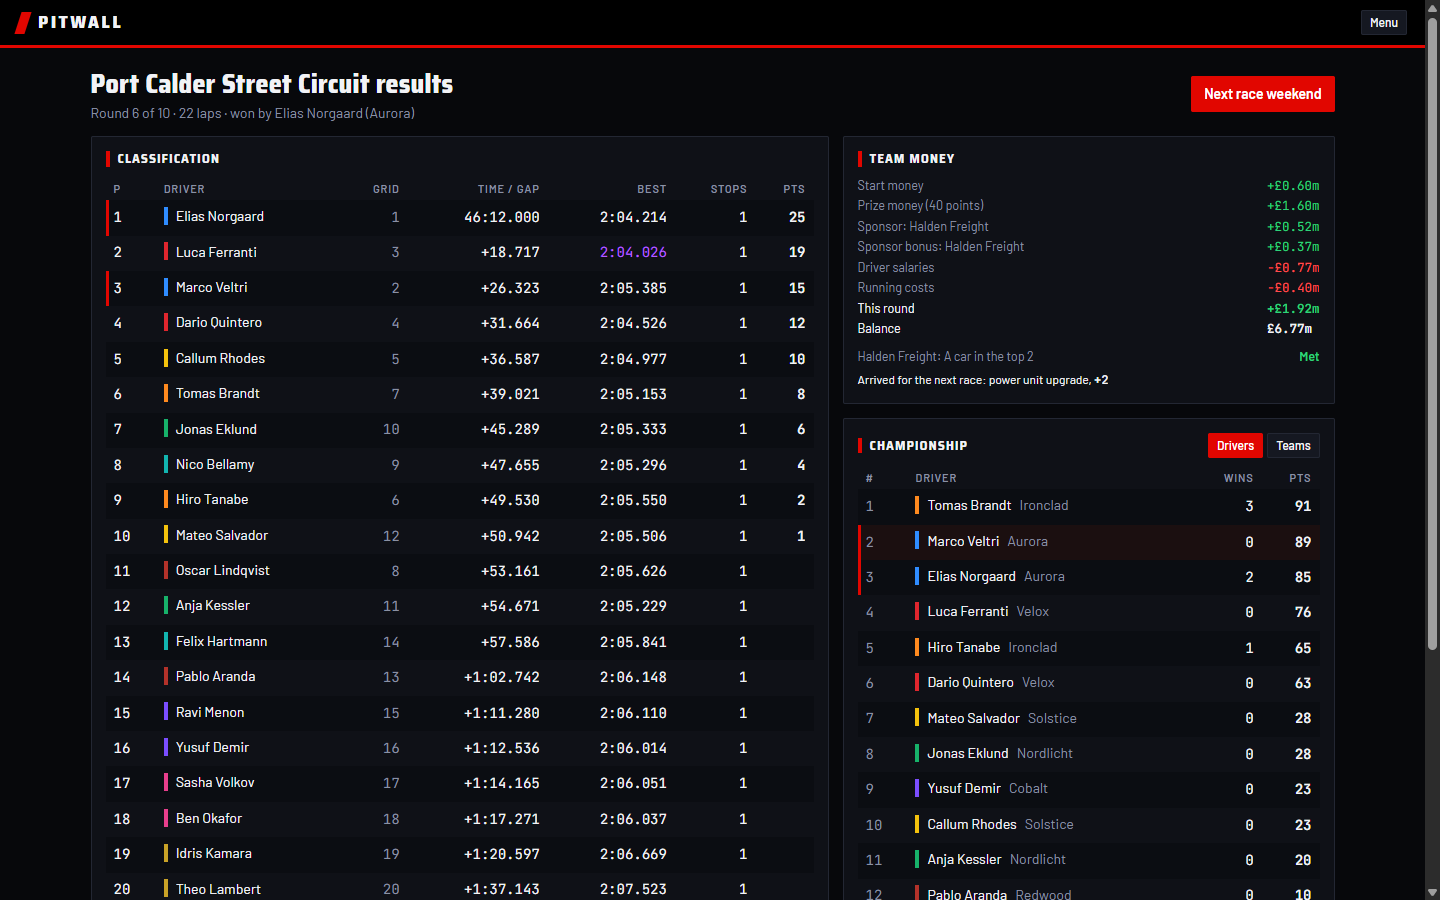
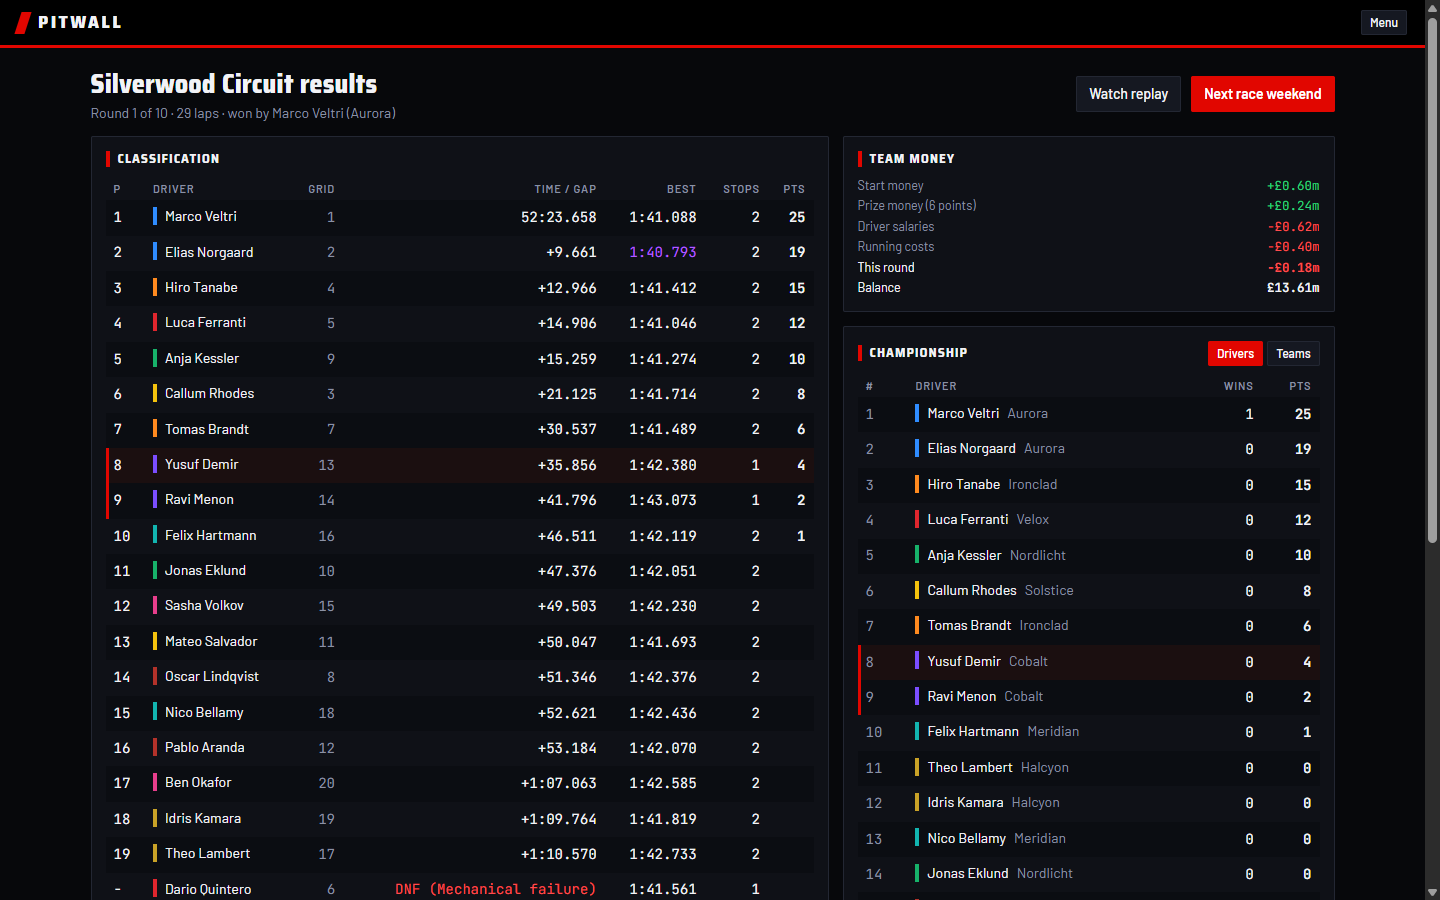
The README and case study show replays, race charts and difficulty, with new screenshots.
Two case-study entries cover replaying a race from the player's orders and tuning difficulty with the season script, including the Hard target that was missed.
The results screenshot is retaken to show Watch replay; the charts, replay and difficulty shots are new.
352 tests.

diff --git a/docs/CASE-STUDY.md b/docs/CASE-STUDY.md
@@ -13,10 +13,11 @@ A real-time race simulation has three requirements that pull against each other.
 | Simulation modelling | `src/engine/track.ts`, `tyres.ts`, `weather.ts`, `race.ts` | Circuits built from straights and true arcs of real radii, speed profiles from grip that rises with speed, tyre wear with a cliff, and a wet-track model, running a 58-lap race headless in well under a second |
 | Algorithms | `src/engine/strategy.ts`, `race.ts`, `circuitBuilder.ts` | Strategy search with greedy stint allocation, gap timing from 10 m checkpoints, and corner arcs fitted between straights with the clash named when two corners do not fit |
 | Probability | `src/engine/weather.ts` | A rain forecast built with Bayes' rule, with its reliability measured over 2,000 races per race length |
-| Deterministic design | `src/engine/rng.ts` | `mixSeed(seed, label)` gives each purpose its own random stream, so adding a car or an event does not reshuffle other draws |
+| Deterministic design | `src/engine/rng.ts`, `replay.ts` | `mixSeed(seed, label)` gives each purpose its own random stream, so adding a car or an event does not reshuffle other draws, and a replay is the race's config plus the player's orders |
+| Data visualisation | `src/ui/RaceChartsPanel.tsx`, `raceCharts.ts` | Hand-drawn SVG lap-time and tyre-wear charts, with series colours checked for colour-blind separation and a lap-by-lap table behind them |
 | React architecture | `src/ui/RaceScreen.tsx`, `moments.ts` | A fixed 0.1 s simulation step inside an animation loop, with interpolation, and pausing on the exact step through refs |
 | State management and migrations | `src/state/migrate.ts`, `effectiveTeams.ts` | Saves read from every version the game has written, and the career laid over the editor's teams, so the engine still receives plain team data |
-| Game economy | `scripts/season.ts`, `src/state/finance.ts`, `development.ts`, `sponsors.ts` | Whole careers played headless, spending against not spending, with the targets and the one target missed recorded |
+| Game balance | `scripts/season.ts`, `src/state/finance.ts`, `development.ts`, `sponsors.ts`, `src/engine/tuning.ts` | Whole careers played headless, spending against not spending and on each difficulty, with the targets and the targets missed recorded |
 | Testing | `src/**/*.test.ts` | 352 `node:test` tests, including statistical tests (forecast honesty, rain frequency), geometry tests (every circuit checked for faults) and a real milestone 4 save as a migration fixture |
 | Calibration method | `scripts/calibrate.ts` | Batch runs of 300 headless races compared with real-race targets, recorded in `docs/DESIGN.md` |
 | CI/CD | `.github/workflows/ci.yml`, `deploy.yml` | GitHub Actions runs typecheck, lint, test and build, then deploys to Pages |
@@ -134,6 +135,26 @@ A real-time race simulation has three requirements that pull against each other.
 **Changed.** Prize money fell from £0.1m to £0.04m a point, and every team is paid £0.6m for starting. Each rival's budget is scaled by what its own level costs, so every rival gains about the same points a round. A point costs more with the fourth power of a rating's distance towards 99, so one at 92 costs about twice one at 84. Sponsor objectives were reset to a top N set by where the car ranks, and to beating the team one place up.
 
 **Result.** Over three seeds (`npm run season -- --seasons 3 --seeds 3`), with a midfield team as the player the gap held at 23.9, 23.6 and 24.0 points over three seasons, and the strongest team spending everything opened it by 3.3 to 3.9. Sponsor objectives were met in 79 to 93% of races for safe deals, 39 to 80% for balanced and 14 to 68% for ambitious. From its second season, a team that spends finishes about a place higher than one that does not. The aim was two places, so the gap is recorded as a known limit.
+
+### 12. Watching a race again without storing the race
+
+**Seen.** A finished race could not be seen again. The engine already makes a race a function of its config and seed, and the player changes it only by giving orders, so the orders are all a replay needs. The risk was drift. A replay that fed an order in one step early or late would run a different race and nobody would notice.
+
+**Measured.** Every order the player gives is logged with the race time it was given at. A 12-lap race with its orders comes to about 6 KB, and a test keeps a 25-lap race under 20 KB. Checking a replay by running it headless took 142 ms for a 12-lap race in the browser.
+
+**Changed.** Live play and replay step the race through the same feed, which hands each logged order to the race just before the step at its time; live play has an empty log, so the two cannot drift apart. Each order is copied as it is logged, so a later change to the caller's object cannot rewrite it. Replays sit under their own storage key, apart from the career, and only the current season's are kept. The career is written first, and when storage is full the replays are cleared to make room. Before a replay opens, it is run headless and its finishing order compared with the one stored; if they differ, the game says so instead of showing a different race.
+
+**Result.** A test replays a race with grid, pace, plan, pit and auto orders to the same result lap for lap, and shows the race comes out differently without the orders. In the browser, a replay finished in the same order as the live race, survived a page reload, and opened from both Results and the calendar. A test fills storage and confirms the career is kept and the replays go.
+
+### 13. A difficulty setting that leaves the tuned game alone
+
+**Seen.** The game had one level of challenge. Every balance figure in this study, every seeded test and every stored replay depends on the races coming out as they do, so a new setting must not move Medium at all.
+
+**Measured.** Each level was played over three seeded seasons with a midfield team that never spends, and again with the rivals' pace switched off, so their pit-wall calls could be measured on their own: how far a rival's first stop sits from the best plan, and how long rivals spend on the wrong kind of tyre in wet races. The first plan made Hard's rivals plan with a little less noise. It moved their first stops only from 4.3 to 4.0 laps from the best plan, because the planner sees stop laps a few laps apart as almost the same cost, so even a little noise moves a stop several laps. Adding noise on Easy changed nothing, because a tyre's life limits how late a stop can move, and Medium's noise already reaches that limit.
+
+**Changed.** Rivals are 0.75 s a lap slower on Easy and 0.4 s quicker on Hard, in qualifying and the race. On Hard they plan with no noise and change tyres for rain close to the break-even point. On Easy they wait for a larger gain before changing tyres. Medium keeps every number it had, and the random streams draw the same values in the same order, so a test pins Medium's values and seeded races are unchanged. The player's cars, on auto or not, are never touched.
+
+**Result.** The midfield team's average place was 3.7 on Easy, 6.7 on Medium and 8.3 on Hard. On Hard, rivals' first stops sit 1.7 laps from the best plan, against 4.3 on Medium. In rain, rivals spend 519 s each on the wrong tyres per wet race on Easy, 421 s on Medium and 387 s on Hard. The target for Hard was 2.5 places lower and it reached 1.6. Pushing further needs rivals about 0.9 s a lap quicker, and at 0.55 s the top team's wins without spending already fell from two a season to 0.7, so Hard was held at 0.4 s and the shortfall is recorded. Planning with no noise on Hard also puts teammates on the same stop lap more often (40% of races against 32%), so they queue in their pit box; that is recorded as a known limit too.
 
 ## Run it
 

diff --git a/README.md b/README.md
@@ -11,20 +11,22 @@ Everything in it is fictional (teams, drivers, circuits), and everything is edit
 | Weekend planning | Results | Team HQ |
 | --- | --- | --- |
 | ![Weekend](docs/screenshots/weekend.png) | ![Results](docs/screenshots/results.png) | ![Team HQ](docs/screenshots/team-hq.png) |
+| **Race charts** | **Replay** | **Difficulty** |
+| ![Race charts](docs/screenshots/race-charts.png) | ![Replay](docs/screenshots/replay.png) | ![Difficulty](docs/screenshots/difficulty.png) |
 | **Season end** | **Team editor** | |
 | ![Season end](docs/screenshots/season-end.png) | ![Editor](docs/screenshots/team-editor.png) | |
 
-The careers in these screenshots were played headless with the game's own engine, then opened in the game.
+The careers in the Team HQ and season-end screenshots were played headless with the game's own engine, then opened in the game. The results, charts and replay come from a Hard race played in the game.
 
 ## What this project shows
 
-Pitwall is a real-time race simulation that has to be deterministic, plausible and fun. The [case study](docs/CASE-STUDY.md) maps each skill to the code that shows it, then tells eleven problems as seen, measured, changed and result.
+Pitwall is a real-time race simulation that has to be deterministic, plausible and fun. The [case study](docs/CASE-STUDY.md) maps each skill to the code that shows it, then tells thirteen problems as seen, measured, changed and result.
 
 - **Modelling and algorithms:** circuits built from real corner radii, tyre wear, weather, strategy search, 10 m checkpoint gap timing.
 - **Probability:** a Bayesian rain forecast, checked over 2,000 races per race length.
-- **Deterministic design:** a separate seeded random stream for each purpose.
+- **Deterministic design:** a separate seeded random stream for each purpose, and replays rebuilt from the player's orders alone.
 - **Calibration:** 300 headless races per tuning run, compared with real-race targets.
-- **Game economy:** whole careers played headless, spending against not spending, and the money tuned to what they showed.
+- **Game balance:** whole careers played headless, spending against not spending and on each difficulty, and the money and rival strength tuned to what they showed.
 - **State and saves:** versioned saves. A milestone 4 save moves up once and stays as a backup, and a save the game cannot read is reported on the menu and kept until the player chooses to replace it.
 - **React architecture:** a fixed 0.1 s step inside an animation loop, pausing on the exact step.
 - **Testing and CI:** 352 tests, with GitHub Actions running typecheck, lint, test, build and deploy.
